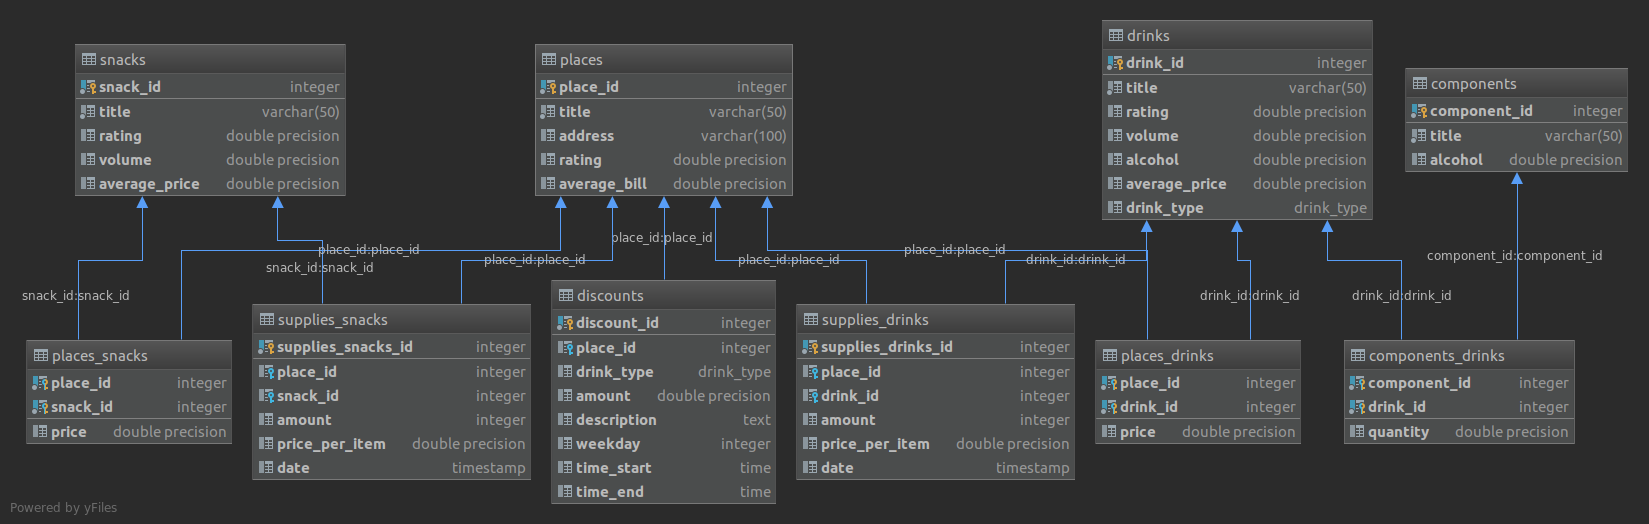
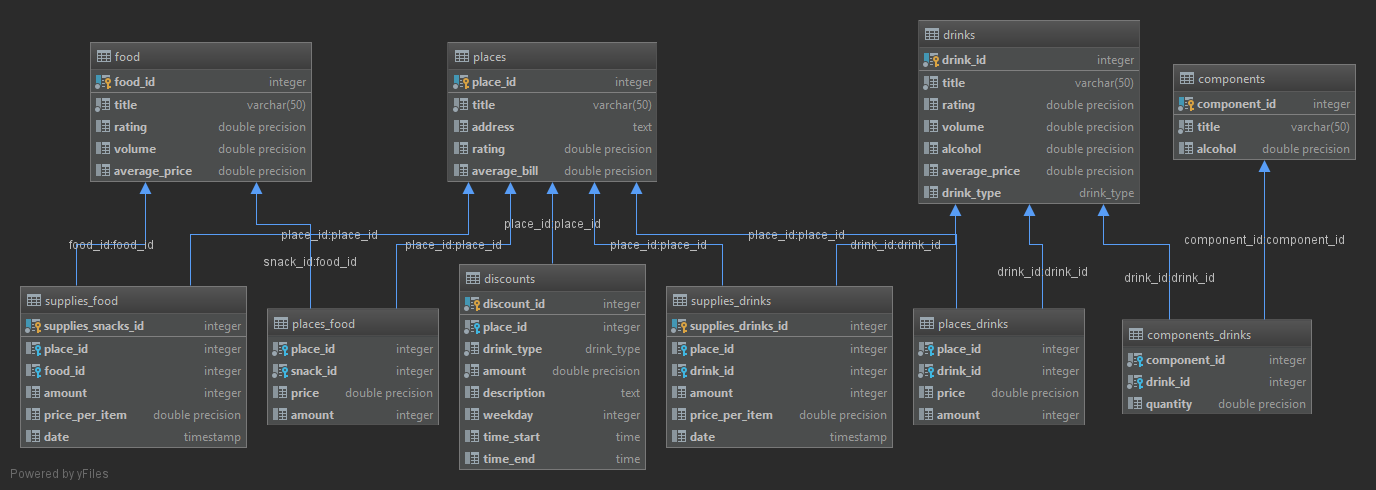
structure changed, lab 2 is almost complete

diff --git a/README.md b/README.md
@@ -1,1 +1,38 @@
+# Винная карта - учебный проект по базам данных.
+## Содержание
+* [Общая информация](#общая-информация)
+* [Структура](#Структура)
+
+## Общая информация
+В данный момент проект содержит 10 таблиц: 5 основных и 5 для связей [n-n](https://en.wikipedia.org/wiki/Many-to-many_(data_model)).
+А так же тип drink_type.
+```sql
+CREATE TYPE drink_type AS ENUM (
+  'пиво и сидр',
+  'водка и настойки',
+  'ром',
+  'текила',
+  'виски',
+  'биттеры',
+  'вино',
+  'бренди и коньяк',
+  'шоты',
+  'коктейли',
+  'безалкогольные'
+  );
+```
+* components - ингредиенты для напитков. Имеет поля, в которых указывается название и процент алкоголя.
+* drinks - напитки. Поля: название, рейтинг, объём, процнт алкоголя, средняя цена, тип напитка.
+* places - заведения. Поля: название, адрес, рейтинг, средний счёт.
+* food - еда. Поля: название, рейтинг, объём, средняя цена.
+* discounts - скидки. Поля: заведение(внешний ключ), тип напитка, процент скидки, описание, день недели, время начала, время конца.
+* supplies_drinks.
+* supplies_food.
+* Вспомогательные:
+    * components_drinks
+    * places_drinks
+    * places_food
+
+
+## Структура
 ![diagram](http://gitlab.icc.spbstu.ru/grafa/wine_card/raw/master/structure.png)
